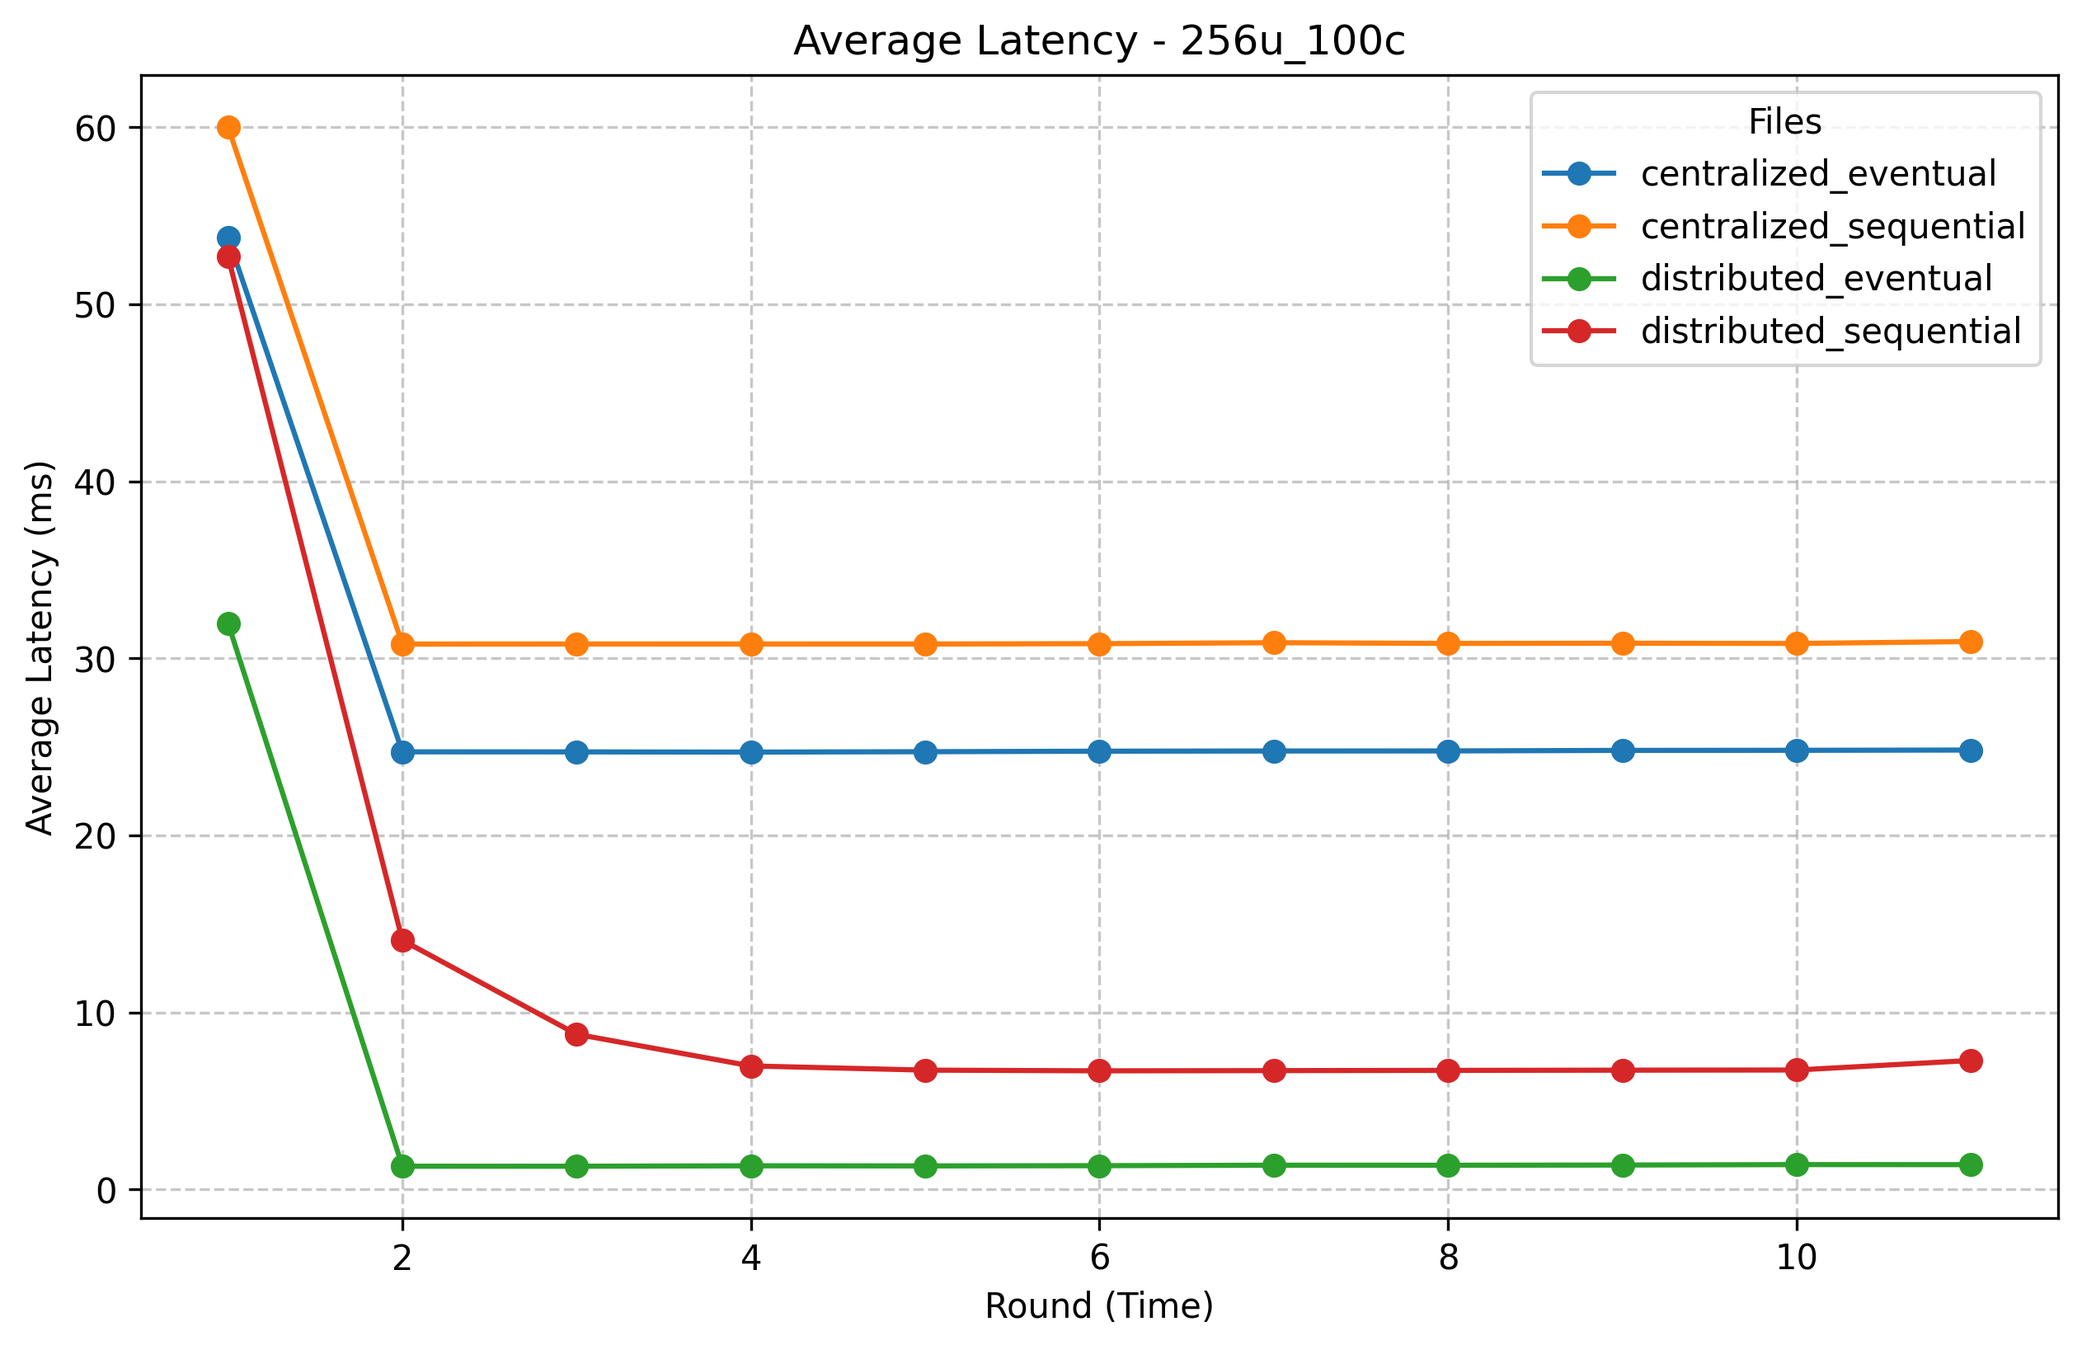
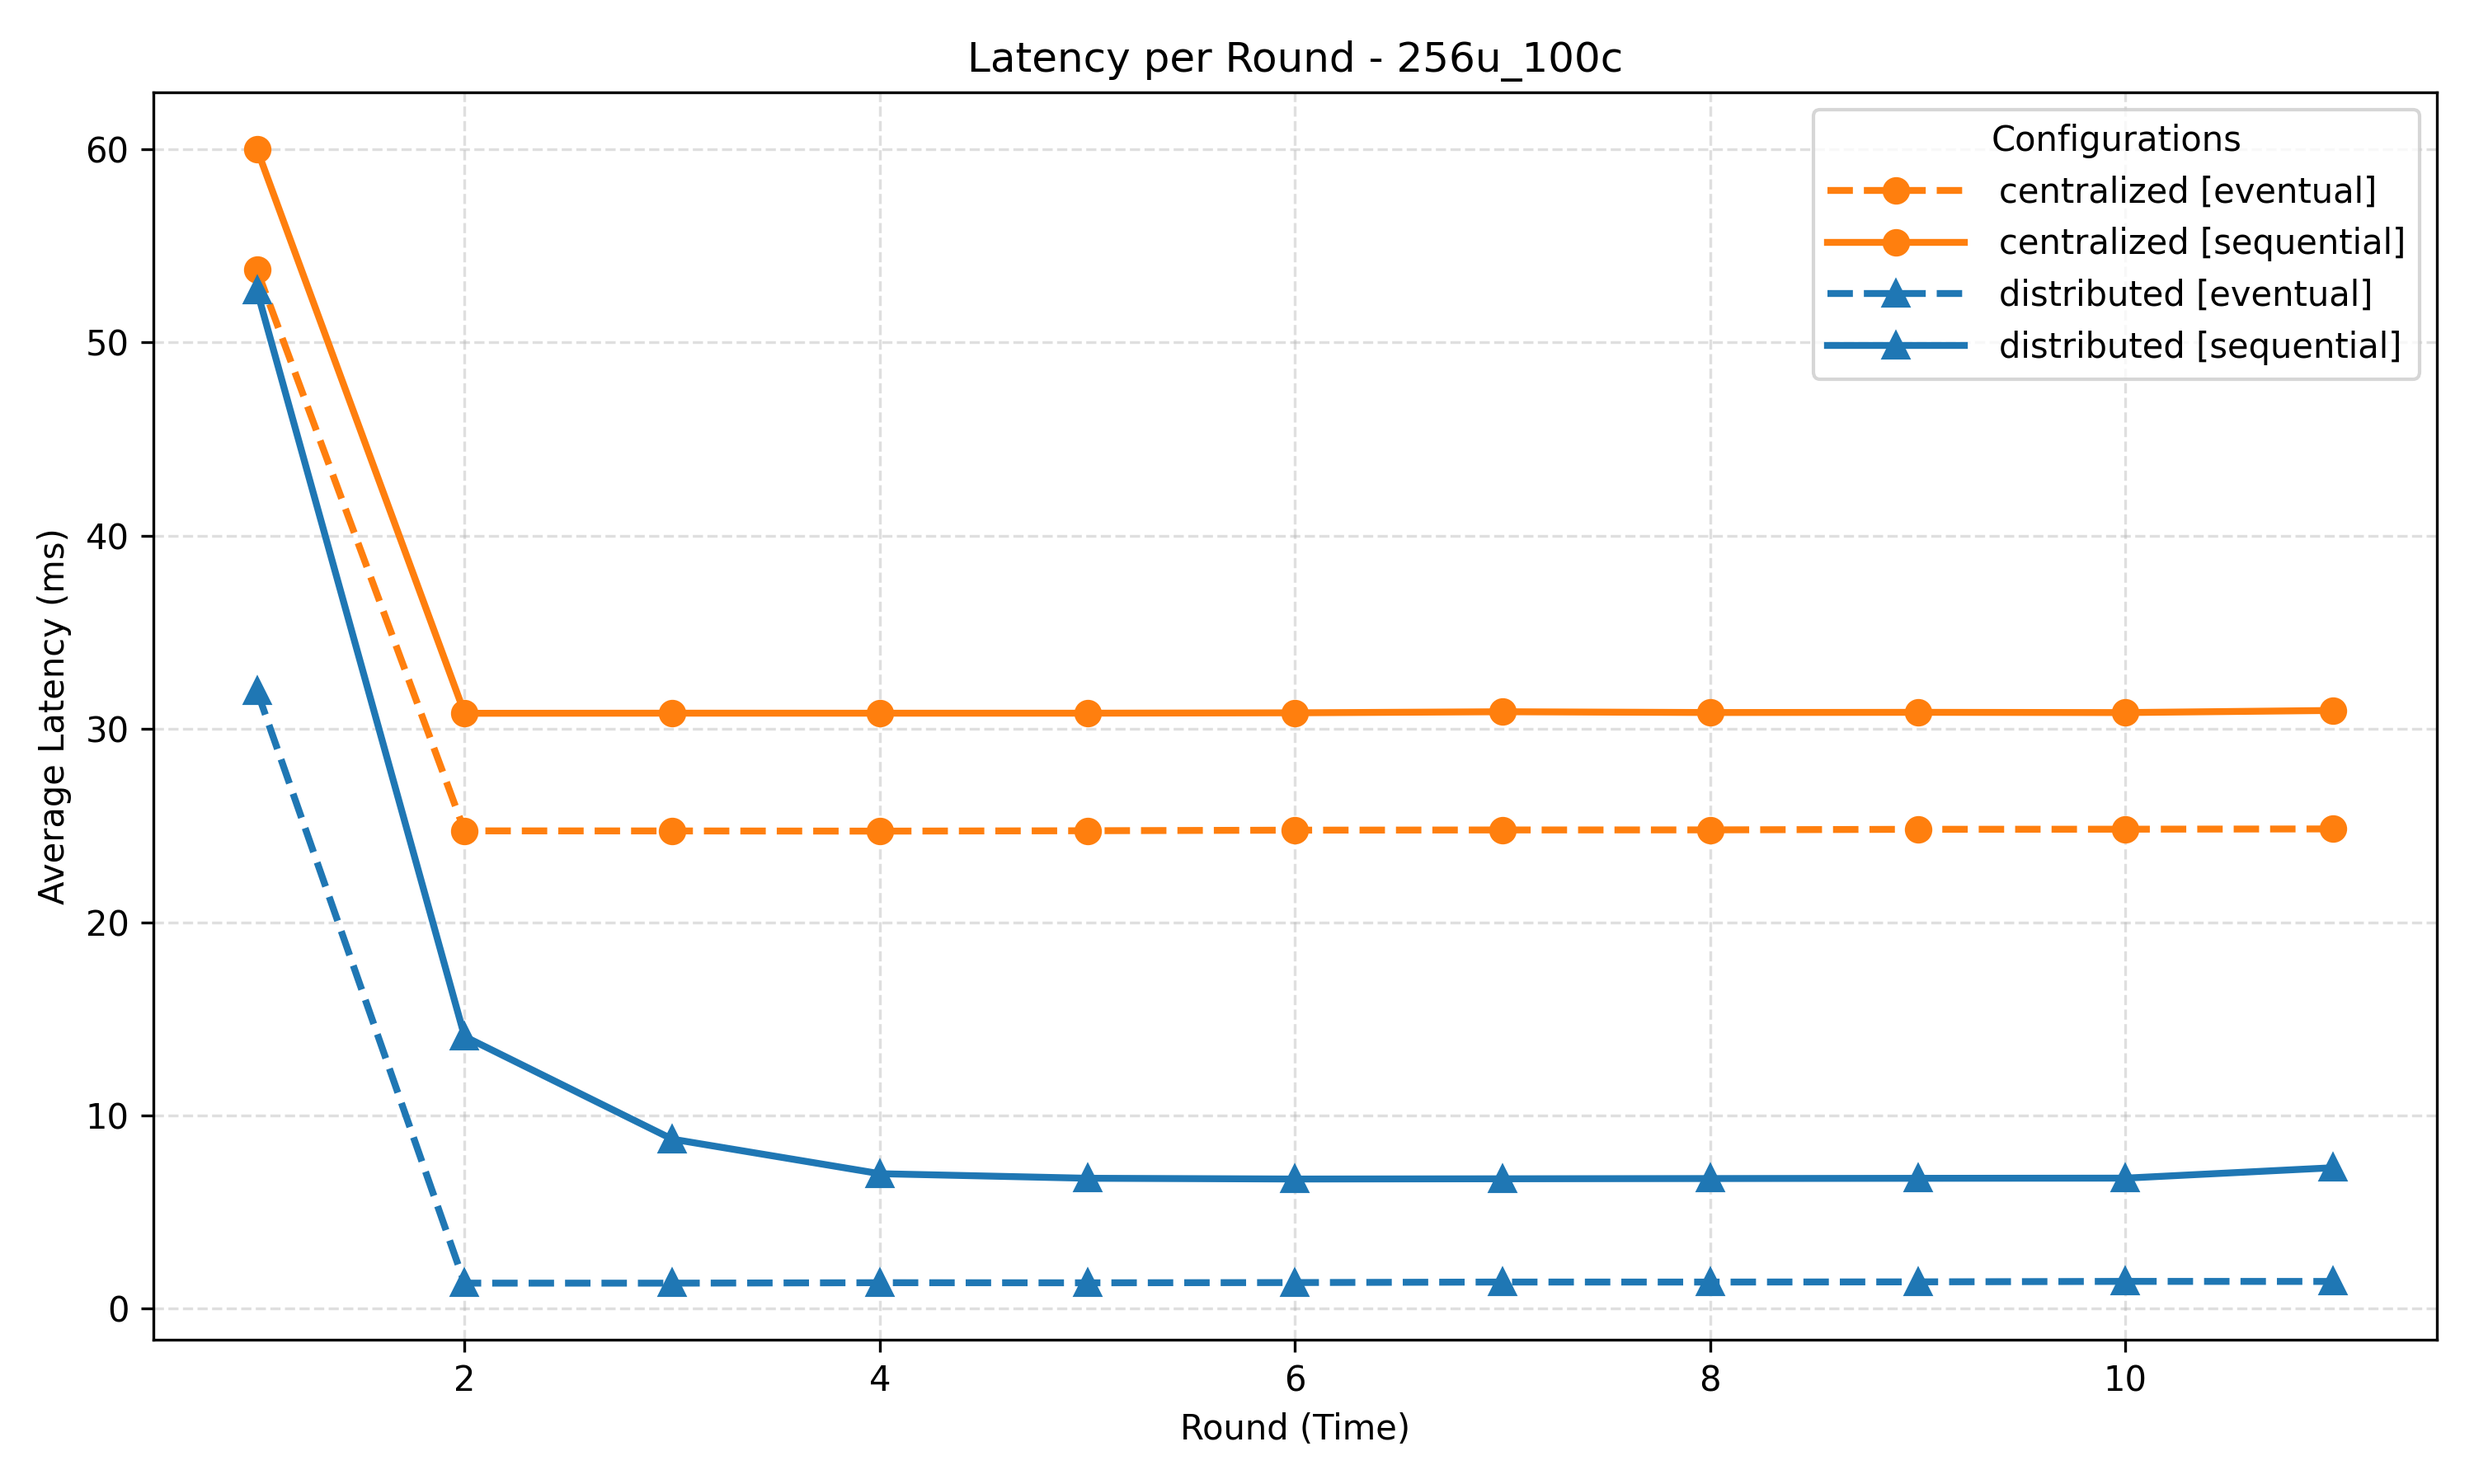
Update rounds plots with different markers

diff --git a/ermes_benchmark/micro_bench/round_graph_generator.py b/ermes_benchmark/micro_bench/round_graph_generator.py
@@ -2,24 +2,22 @@ import glob
 import os
 import matplotlib.pyplot as plt
 import pandas as pd
+import sys
 
 def process_all_round_folders():
     # Percorsi base
     base_data_dir = "data/rounds"
     base_output_dir = "output_img/rounds"
 
-    # Assicurati che la cartella di output esista
+    # Creazione cartella output
     if not os.path.exists(base_output_dir):
         os.makedirs(base_output_dir)
-        print(f"Creata cartella di output: {base_output_dir}")
 
-    # Verifica che la cartella dati esista
+    # Verifica input
     if not os.path.exists(base_data_dir):
         print(f"Errore: La cartella '{base_data_dir}' non esiste.")
         return
 
-    # Trova tutte le sottocartelle in data/rounds
-    # os.listdir elenca tutto, quindi filtriamo solo le directory
     subfolders = [f for f in os.listdir(base_data_dir) if os.path.isdir(os.path.join(base_data_dir, f))]
 
     if not subfolders:
@@ -28,64 +26,99 @@ def process_all_round_folders():
 
     print(f"Trovate {len(subfolders)} cartelle da elaborare.")
 
-    # Cicla attraverso ogni sottocartella
     for folder_name in subfolders:
-        print(f"--- Elaborazione cartella: {folder_name} ---")
+        print(f"--- Elaborazione: {folder_name} ---")
 
-        # Costruisce il pattern per trovare i csv in QUESTA specifica sottocartella
-        # os.path.join gestisce automaticamente gli slash corretti per il sistema operativo
         search_path = os.path.join(base_data_dir, folder_name, "*.csv")
         csv_files = glob.glob(search_path)
 
         if not csv_files:
-            print(f"Nessun file CSV trovato in {folder_name}, salto.")
             continue
 
-        # Crea una nuova figura per questa cartella
         plt.figure(figsize=(10, 6))
-
         files_plotted = 0
 
-        # Loop per ogni CSV nella cartella corrente
+        # Ordina i file per coerenza
+        csv_files.sort()
+
         for filename in csv_files:
             try:
-                # Leggi il CSV
                 df = pd.read_csv(filename)
+                base_label = os.path.splitext(os.path.basename(filename))[0]
 
-                # Pulisce il nome del file per usarlo come etichetta nella legenda
-                label = os.path.splitext(os.path.basename(filename))[0]
-
-                # Controlla colonne richieste
                 if 'Round' in df.columns and 'AverageLatency' in df.columns:
-                    # Ordina per Round per sicurezza
                     df = df.sort_values('Round')
 
-                    # Aggiungi la riga al grafico
-                    plt.plot(df['Round'], df['AverageLatency'], marker='o', label=label)
+                    fname_lower = base_label.lower()
+
+                    # --- 1. Determinazione ARCHITETTURA (Colore + Marker) ---
+                    # Richiesta: Marker distingue centralized/distributed
+
+                    if 'centralized' in fname_lower:
+                        color = 'tab:orange'
+                        marker = 'o'          # Cerchio per Centralized
+                        arch_name = "centralized"
+                    elif 'distributed' in fname_lower:
+                        color = 'tab:blue'
+                        marker = '^'          # Triangolo per Distributed
+                        arch_name = "distributed"
+                    else:
+                        color = 'tab:gray'
+                        marker = 'd'          # Diamante per altro
+                        arch_name = base_label
+
+                    # --- 2. Determinazione CONSISTENZA (Tratteggio) ---
+                    # Richiesta: Tratteggio distingue eventual/sequential
+
+                    mode = "Unknown"
+                    if 'Mode' in df.columns and not df['Mode'].dropna().empty:
+                        mode = str(df['Mode'].iloc[0])
+
+                    mode_lower = mode.lower()
+
+                    # Fallback sul nome file
+                    if mode_lower not in ['sequential', 'eventual']:
+                        if 'sequential' in fname_lower: mode_lower = 'sequential'
+                        elif 'eventual' in fname_lower: mode_lower = 'eventual'
+
+                    if mode_lower == 'sequential':
+                        linestyle = '-'       # Continua
+                    elif mode_lower == 'eventual':
+                        linestyle = '--'      # Tratteggiata
+                    else:
+                        linestyle = ':'       # Punteggiata (Unknown)
+
+                    # --- 3. COSTRUZIONE LEGENDA ---
+                    label_text = f"{arch_name} [{mode_lower}]"
+
+                    # Plot
+                    plt.plot(df['Round'], df['AverageLatency'],
+                             marker=marker,
+                             linestyle=linestyle,
+                             color=color,
+                             linewidth=2,
+                             markersize=7,    # Leggermente più grande per vedere bene il triangolo
+                             label=label_text)
+
                     files_plotted += 1
-                else:
-                    print(f"Skipping {filename}: colonne 'Round' o 'AverageLatency' mancanti.")
 
             except Exception as e:
                 print(f"Errore leggendo {filename}: {e}")
 
-        # Se abbiamo aggiunto almeno un grafico, salviamo l'immagine
         if files_plotted > 0:
-            # Formattazione del grafico
             plt.xlabel('Round (Time)')
             plt.ylabel('Average Latency (ms)')
-            plt.title(f'Average Latency - {folder_name}') # Titolo dinamico con il nome cartella
-            plt.legend(title='Files')
-            plt.grid(True, linestyle='--', alpha=0.7)
+            plt.title(f'Latency per Round - {folder_name}')
+            plt.grid(True, linestyle='--', alpha=0.4)
 
-            # Definisce il nome del file di output
+            # handlelength aumentato per vedere bene il tratteggio
+            plt.legend(title='Configurations', loc='best', handlelength=4, handletextpad=1)
+
+            plt.tight_layout()
+
             output_file = os.path.join(base_output_dir, f"{folder_name}.png")
-
-            # Salva
-            plt.savefig(output_file, dpi=300, bbox_inches='tight')
-            print(f"Grafico salvato in: {output_file}")
-        else:
-            print(f"Nessun dato valido trovato per il grafico in {folder_name}.")
+            plt.savefig(output_file, dpi=300)
+            print(f"✅ Grafico salvato: {output_file}")
 
         plt.close()
 
